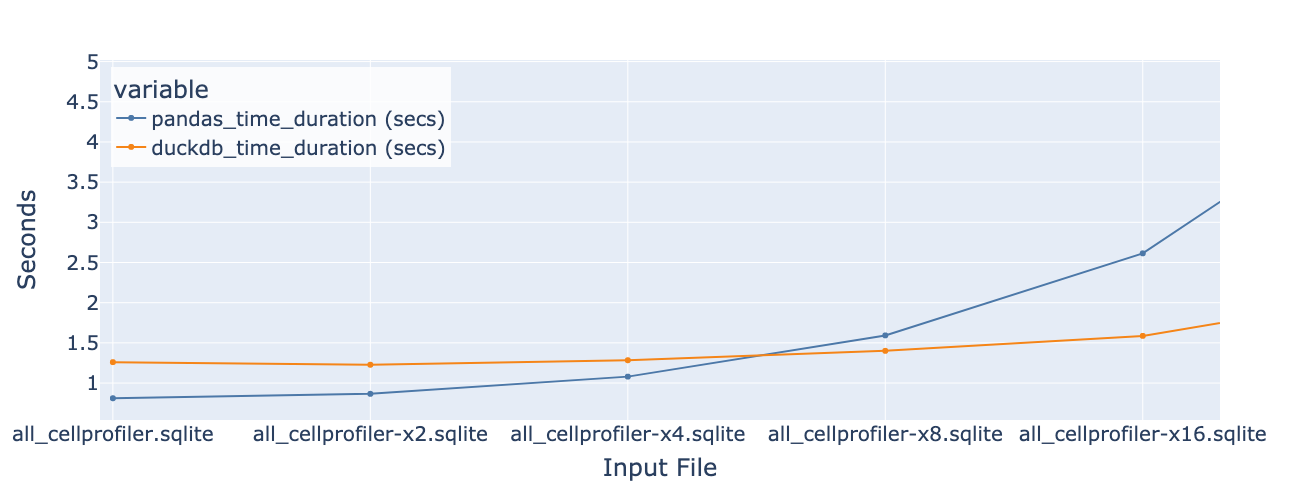
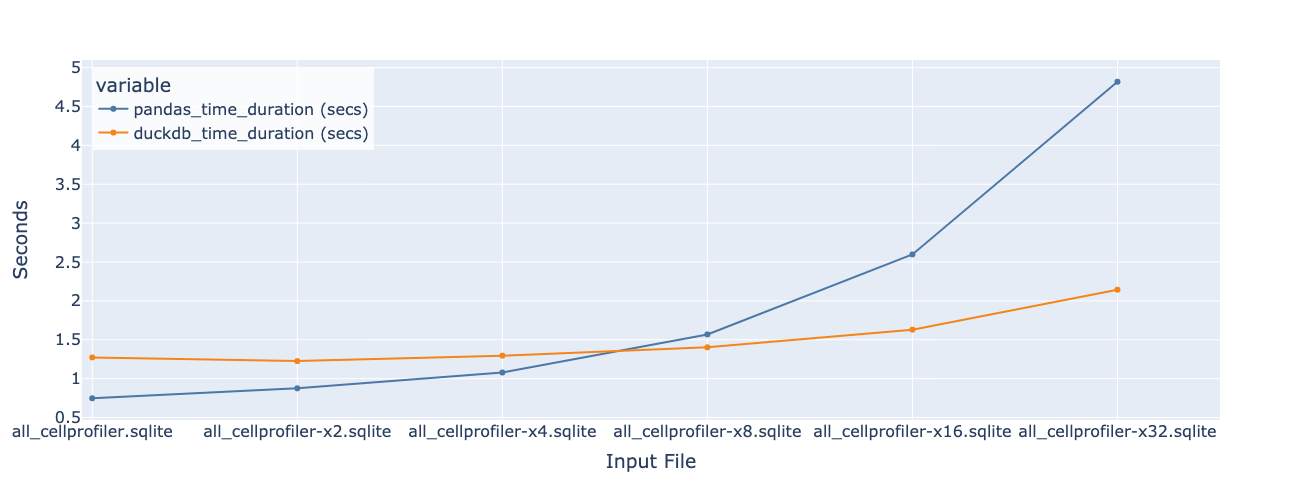
modify layout

diff --git a/notebooks/duckdb_analysis.py b/notebooks/duckdb_analysis.py
@@ -155,10 +155,10 @@ fig = px.line(
 fig.update_layout(
     legend=dict(x=0.01, y=0.98, bgcolor="rgba(255,255,255,0.8)"),
     font=dict(
-        size=20,  # global font size
+        size=16,  # global font size
     ),
 )
-fig.update_xaxes(range=[-0.05, 4.3])
+fig.update_xaxes(range=[-0.05, 5.5])
 fig.update_traces(mode="lines+markers")
 
 pio.write_image(fig, f"{image_dir}/join-read-time.png")
